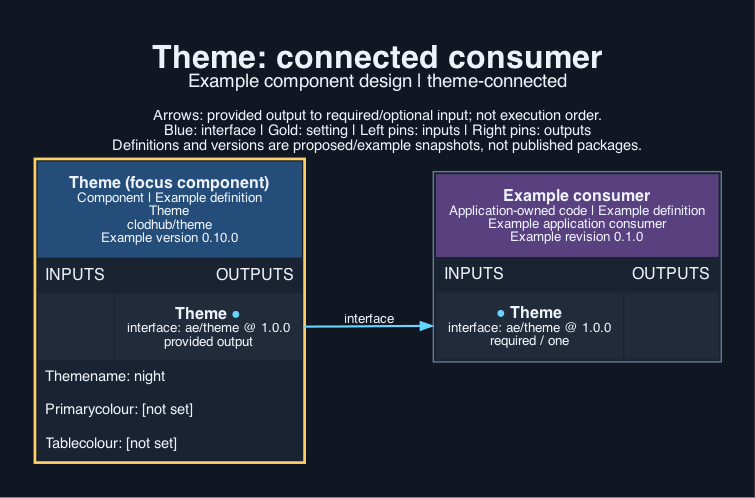
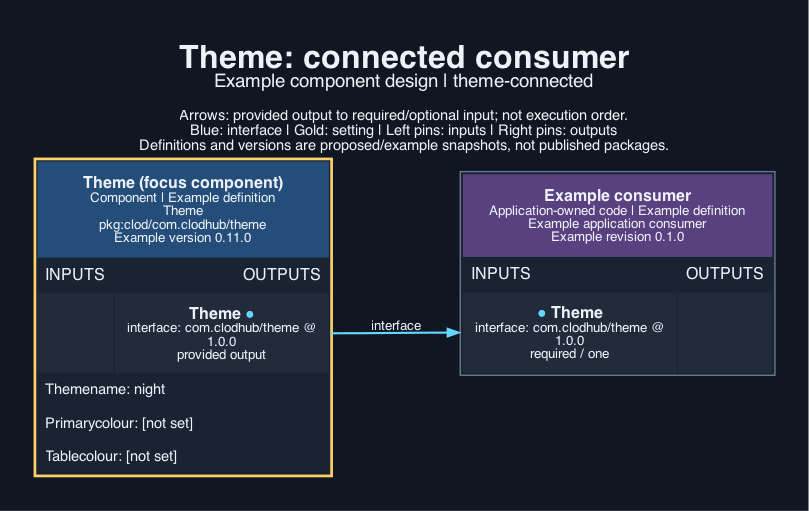
theme 0.11.0: package URL names, clod, com.clodhub interface types and Kotlin packages

Changed region(s): [[0.0305, 0.2108, 0.9748, 0.9337], [0.1828, 0.0904, 0.7921, 0.1807], [0.0, 0.994, 1.0, 1.0]]

diff --git a/tests/web.test.ts b/tests/web.test.ts
@@ -24,7 +24,7 @@ test("the shipped themes match the token schema", () => {
 test("the OpenRPC interface describes the token shape and the exported operations", async () => {
   const doc = JSON.parse(read("../interfaces/theme.json"));
   assert.equal(doc.openrpc, "1.3.2");
-  assert.deepEqual([doc.info.title, doc.info.version], ["ae/theme", "1.0.0"]);
+  assert.deepEqual([doc.info.title, doc.info.version], ["com.clodhub/theme", "1.0.0"]);
   const { Tokens, BackgroundStyle, Colour } = doc.components.schemas;
   const schema = JSON.parse(read("../implementation/web/tokens.schema.json"));
   assert.deepEqual(Tokens.required, schema.required);
@@ -88,7 +88,7 @@ test("generated CSS, Swift and Kotlin files are what the renderers produce", () 
   const out = buildAll(file);
   assert.equal(read("../implementation/web/theme.css"), out.css);
   assert.equal(read("../implementation/apple/Sources/ThemeTokens.swift"), out.swift);
-  assert.equal(read("../implementation/android/src/main/java/ae/theme/ThemeTokens.kt"), out.kotlin);
+  assert.equal(read("../implementation/android/src/main/java/com/clodhub/theme/ThemeTokens.kt"), out.kotlin);
   assert.match(renderSwift(file), /ThemeColour\(rgba: 0xE0B35AFF\)/);
   assert.match(renderKotlin(file), /primary = 0xFFE0B35AL/);
   assert.throws(() => buildAll({ ...file, themes: [{ ...night, colour: { ...night.colour, text: "x" } }] }), /text/);

diff --git a/implementation/web/tokens.ts b/implementation/web/tokens.ts
@@ -56,7 +56,7 @@ export function parseColour(hex: Colour): { r: number; g: number; b: number; a: 
   return { r: n(1), g: n(3), b: n(5), a: hex.length === 9 ? n(7) / 255 : 1 };
 }
 
-// An installer colour: an aepm string setting cannot hold "#" and must start with a letter, so a
+// An installer colour: a clod string setting cannot hold "#" and must start with a letter, so a
 // colour is written "hex e0b35a" (or "hex e0b35a80" with opacity). "#rrggbb" and "rrggbb" are accepted
 // too, for code. Returns "#rrggbb" or "#rrggbbaa" in lower case; throws for anything else.
 export function parseColourSetting(value: string): Colour {
@@ -169,7 +169,7 @@ export function renderKotlin(file: ThemeFile): string {
         background = ThemeBackgroundStyle(tint = ${k(b.tint)}, glow = ${k(b.glow)}, glowFromTop = ${b.glowFromTop}, speed = ${f(b.speed)}, suitAlpha = ${f(b.suitAlpha)}, specks = ${b.specks}, speckUp = ${b.speckUp}, speckColour = ${k(b.speckColour)}, glyphs = ${JSON.stringify(b.glyphs).replace(/[^\x00-\x7f]/g, (c) => "\\u" + c.charCodeAt(0).toString(16).padStart(4, "0"))}))`;
   });
   return `// Generated by theme tokens.ts renderKotlin from themes.json. Do not edit.
-package ae.theme
+package com.clodhub.theme
 
 object ThemeTokens {
 ${items.join("\n")}

diff --git a/implementation/android/src/main/java/com/clodhub/theme/ThemeTypes.kt b/implementation/android/src/main/java/com/clodhub/theme/ThemeTypes.kt
@@ -1,4 +1,4 @@
-package ae.theme
+package com.clodhub.theme
 
 // The token shapes ThemeTokens.kt (generated from themes.json) fills in. Colours are 0xAARRGGBB
 // Longs, so the values can be read and tested without Compose; ThemeBackground.kt turns them into Colors.
@@ -42,7 +42,7 @@ data class ThemeSet(
     }
 }
 
-// An installer colour: "hex e0b35a" (an aepm string setting cannot hold "#" and starts with a
+// An installer colour: "hex e0b35a" (a clod string setting cannot hold "#" and starts with a
 // letter), "#rrggbb", "rrggbb", each optionally with two more digits of opacity; null for anything else.
 fun parseColourSetting(value: String): Long? {
     var text = value.trim()

diff --git a/implementation/web/build-tokens.ts b/implementation/web/build-tokens.ts
@@ -25,7 +25,7 @@ if (import.meta.main) {
   const targets: [string, string][] = [
     [join(option("--css", here), "theme.css"), out.css],
     [join(option("--swift", join(here, "../apple/Sources")), "ThemeTokens.swift"), out.swift],
-    [join(option("--kotlin", join(here, "../android/src/main/java/ae/theme")), "ThemeTokens.kt"), out.kotlin],
+    [join(option("--kotlin", join(here, "../android/src/main/java/com/clodhub/theme")), "ThemeTokens.kt"), out.kotlin],
   ];
   for (const [path, text] of targets) {
     mkdirSync(dirname(path), { recursive: true });

diff --git a/implementation/apple/Sources/ThemeTypes.swift b/implementation/apple/Sources/ThemeTypes.swift
@@ -16,7 +16,7 @@ struct ThemeColour: Equatable {
         alpha = Double(rgba & 0xFF) / 255
     }
 
-    // An installer colour: "hex e0b35a" (an aepm string setting cannot hold "#" and starts with a
+    // An installer colour: "hex e0b35a" (a clod string setting cannot hold "#" and starts with a
     // letter), "#rrggbb", "rrggbb", each optionally with two more digits of opacity; nil for anything else.
     static func setting(_ value: String) -> ThemeColour? {
         var text = value.trimmingCharacters(in: .whitespaces)

diff --git a/implementation/android/src/main/java/com/clodhub/theme/ThemeTokens.kt b/implementation/android/src/main/java/com/clodhub/theme/ThemeTokens.kt
@@ -1,5 +1,5 @@
 // Generated by theme tokens.ts renderKotlin from themes.json. Do not edit.
-package ae.theme
+package com.clodhub.theme
 
 object ThemeTokens {
     val NIGHT = ThemeSet(name = "night",

diff --git a/tests/android/Main.kt b/tests/android/Main.kt
@@ -1,4 +1,4 @@
-import ae.theme.*
+import com.clodhub.theme.*
 import java.io.File
 
 // Mirrors tests/apple/main.swift without a JSON library: token values are checked against the

diff --git a/implementation/android/src/main/java/com/clodhub/theme/ThemeBackground.kt b/implementation/android/src/main/java/com/clodhub/theme/ThemeBackground.kt
@@ -1,4 +1,4 @@
-package ae.theme
+package com.clodhub.theme
 
 import android.graphics.Paint
 import androidx.compose.foundation.Canvas

diff --git a/implementation/android/src/main/java/com/clodhub/theme/BackgroundMath.kt b/implementation/android/src/main/java/com/clodhub/theme/BackgroundMath.kt
@@ -1,4 +1,4 @@
-package ae.theme
+package com.clodhub.theme
 
 import kotlin.math.PI
 import kotlin.math.abs

diff --git a/CONTRACT.md b/CONTRACT.md
@@ -6,7 +6,7 @@
 Facilities: `theme` (Design tokens and animated background for web, Apple and Android clients).
 
 ## User inputs
-`themeName` selects a theme from `themes.json` (shipped: `night`, a dark room with a warm glow rising from below; `lounge`, a slower, softer look with the glow from above). An unknown name falls back to the default. `primaryColour` and `tableColour` are optional colours that replace the theme's primary (buttons, headings, highlights) and table (playing surface) colours; empty means the theme's own. An aepm string setting cannot hold `#` and must start with a letter, so a colour is written `hex e0b35a` (six digits, or eight with opacity); code may also pass `#e0b35a`. The settings are strings with the `label` grammar; a malformed colour is refused. Scene pictures and figures are supplied by the application at run time, not by this package.
+`themeName` selects a theme from `themes.json` (shipped: `night`, a dark room with a warm glow rising from below; `lounge`, a slower, softer look with the glow from above). An unknown name falls back to the default. `primaryColour` and `tableColour` are optional colours that replace the theme's primary (buttons, headings, highlights) and table (playing surface) colours; empty means the theme's own. A clod string setting cannot hold `#` and must start with a letter, so a colour is written `hex e0b35a` (six digits, or eight with opacity); code may also pass `#e0b35a`. The settings are strings with the `label` grammar; a malformed colour is refused. Scene pictures and figures are supplied by the application at run time, not by this package.
 
 - `themeName` (string, slug; optional; default `night`)
 - `primaryColour` (string, label; optional)
@@ -15,10 +15,10 @@ Facilities: `theme` (Design tokens and animated background for web, Apple and An
 ## Artefacts and dependencies
 `component.json` maps every `implementation/` source into `components/theme/`:
 
-- `implementation/android/src/main/java/ae/theme/BackgroundMath.kt` -> `components/theme/android/src/main/java/ae/theme/BackgroundMath.kt`
-- `implementation/android/src/main/java/ae/theme/ThemeBackground.kt` -> `components/theme/android/src/main/java/ae/theme/ThemeBackground.kt`
-- `implementation/android/src/main/java/ae/theme/ThemeTokens.kt` -> `components/theme/android/src/main/java/ae/theme/ThemeTokens.kt`
-- `implementation/android/src/main/java/ae/theme/ThemeTypes.kt` -> `components/theme/android/src/main/java/ae/theme/ThemeTypes.kt`
+- `implementation/android/src/main/java/com/clodhub/theme/BackgroundMath.kt` -> `components/theme/android/src/main/java/com/clodhub/theme/BackgroundMath.kt`
+- `implementation/android/src/main/java/com/clodhub/theme/ThemeBackground.kt` -> `components/theme/android/src/main/java/com/clodhub/theme/ThemeBackground.kt`
+- `implementation/android/src/main/java/com/clodhub/theme/ThemeTokens.kt` -> `components/theme/android/src/main/java/com/clodhub/theme/ThemeTokens.kt`
+- `implementation/android/src/main/java/com/clodhub/theme/ThemeTypes.kt` -> `components/theme/android/src/main/java/com/clodhub/theme/ThemeTypes.kt`
 - `implementation/apple/Sources/BackgroundMath.swift` -> `components/theme/apple/Sources/BackgroundMath.swift`
 - `implementation/apple/Sources/ThemeBackgroundView.swift` -> `components/theme/apple/Sources/ThemeBackgroundView.swift`
 - `implementation/apple/Sources/ThemeTokens.swift` -> `components/theme/apple/Sources/ThemeTokens.swift`
@@ -35,7 +35,7 @@ Dependencies: none.
 `tools.lock.json` pins verification tools: node 26.5, python3 3.12, swiftc 6.4, xcrun 72, kotlinc 2.2, java 26.0. Licence wording remains deferred.
 
 ## Provided interfaces
-- `interfaces/theme.json` defines `theme` (ae/theme) version 1.0.0 as an OpenRPC 1.3.2 document: one method per web function (`tokens.ts`, `background.ts`, `build-tokens.ts`), each description naming the Swift and Kotlin form, and the token shape (`Tokens`, `BackgroundStyle`, `ThemeFile`, `ThemeSettings`, the host views) as JSON Schema 2020-12 under `components.schemas`. Host views the shells read: `colourTable` (every colour name to `#rrggbb`, for web-host `themeColour` and `backgroundColour`), `accentColour` and Swift `ThemeSet.accent` (apple-host tint), `shellPalette` and Kotlin `ThemeSet.palette()` (android-host `ShellPalette`; the secondary colour is the table colour). Colours resolve first, so the host settings and the installer overrides agree.
+- `interfaces/theme.json` defines `theme` (com.clodhub/theme) version 1.0.0 as an OpenRPC 1.3.2 document: one method per web function (`tokens.ts`, `background.ts`, `build-tokens.ts`), each description naming the Swift and Kotlin form, and the token shape (`Tokens`, `BackgroundStyle`, `ThemeFile`, `ThemeSettings`, the host views) as JSON Schema 2020-12 under `components.schemas`. Host views the shells read: `colourTable` (every colour name to `#rrggbb`, for web-host `themeColour` and `backgroundColour`), `accentColour` and Swift `ThemeSet.accent` (apple-host tint), `shellPalette` and Kotlin `ThemeSet.palette()` (android-host `ShellPalette`; the secondary colour is the table colour). Colours resolve first, so the host settings and the installer overrides agree.
 
 ## Required interfaces
 None.

diff --git a/SOURCE.md b/SOURCE.md
@@ -7,7 +7,7 @@ Reference revision: `19905b75dbea89fbfd424d67fe26c81aaed0e018`. Extracted from t
 - `implementation/web/tokens.schema.json` <- new. Shape of the values in `web/src/style.css:1-12` (`:root` colours) and the `Theme` type in `web/src/background.ts:3-6`, extended with spacing, radii and a type scale read off the repeated values in `style.css` (paddings 4 to 24, radii 6 to 999, font sizes 11 to 36). Generated platform-neutral (`generated-platform`).
 - `implementation/web/themes.json` <- `web/src/background.ts:8-11` (`casino`, `home` values) and `web/src/style.css:1-12`. `casino` is renamed `night` and `home` `lounge`; `--gold` is `primary`, `--felt` `table`, `--felt-edge` `tableEdge`, `--bg` `background`, `#1b1a17` (ink) `onPrimary`, `#f6f1e4` and `#c0262d` (card face and red, `style.css:121-122`, `ios Palette`) `paper` and `paperAccent`. The recipe's `felt` and `bg` differ between `style.css` and the per-room `Theme`; the per-room values are kept.
 - `implementation/web/tokens.ts` <- new (`generated-platform`): validation, `resolveTheme` (settings `themeName`, `primaryColour`, `tableColour`), and the CSS, Swift and Kotlin renderers. `Theme.setTheme` in `web/src/background.ts:66-75` set `--felt` and `--bg` directly; `applyTheme` replaces it.
-- `implementation/web/theme.css`, `implementation/apple/Sources/ThemeTokens.swift`, `implementation/android/src/main/java/ae/theme/ThemeTokens.kt` <- generated by `build-tokens.ts`; checked for drift in `tests/web.test.ts`.
+- `implementation/web/theme.css`, `implementation/apple/Sources/ThemeTokens.swift`, `implementation/android/src/main/java/com/clodhub/theme/ThemeTokens.kt` <- generated by `build-tokens.ts`; checked for drift in `tests/web.test.ts`.
 - `implementation/web/build-tokens.ts` <- new command line wrapper.
 - `implementation/web/background.ts` <- `web/src/background.ts:1-181`. Kept: the random generator (`19-22`), particle and speck seeds (`25-32`), the drawing (`109-181`) and placement formulas. Generalised: the `themes` and `scenes` tables and `./art/scene-<room>-*` file names (`8-17`, `53-61`) became the theme tokens and a caller-supplied `Scene` (`setScene`); suit characters (`24`) became the theme's `glyphs`; the placement maths (`150-180`) became pure `glyphFrame`, `speckFrame`, `flicker`, `figureBox`; the sprite tint and glow colours are parsed from token colours. Left behind: the room id and the `casino` fall-back.
 
@@ -20,9 +20,9 @@ Reference revision: `19905b75dbea89fbfd424d67fe26c81aaed0e018`. Extracted from t
 
 ## Android
 
-- `implementation/android/src/main/java/ae/theme/ThemeTypes.kt` <- new (`generated-platform`), as the Swift types.
-- `implementation/android/src/main/java/ae/theme/BackgroundMath.kt` <- `android/app/src/main/java/app/ourapps/ourpoker/ui/PokerBackground.kt:86-107` (seeds) and `140-165` (placement).
-- `implementation/android/src/main/java/ae/theme/ThemeBackground.kt` <- `PokerBackground.kt:1-138`. Generalised: `THEMES`, `themeFor`, `sceneImage` by resource name and the `SCENES` table became `BackgroundScene`; `ComposeColours` is new. Left behind: `Layout.kt` (to `table-layout`).
+- `implementation/android/src/main/java/com/clodhub/theme/ThemeTypes.kt` <- new (`generated-platform`), as the Swift types.
+- `implementation/android/src/main/java/com/clodhub/theme/BackgroundMath.kt` <- `android/app/src/main/java/app/ourapps/ourpoker/ui/PokerBackground.kt:86-107` (seeds) and `140-165` (placement).
+- `implementation/android/src/main/java/com/clodhub/theme/ThemeBackground.kt` <- `PokerBackground.kt:1-138`. Generalised: `THEMES`, `themeFor`, `sceneImage` by resource name and the `SCENES` table became `BackgroundScene`; `ComposeColours` is new. Left behind: `Layout.kt` (to `table-layout`).
 
 `colourTable`, `accentColour`, `shellPalette` (web), `ThemeSet.accent` (Swift) and `ThemePalette` with `ThemeSet.palette()` (Kotlin) are new code (`generated-platform` for the native two); they have no recipe counterpart. The recipe builds its android palette and Apple tint by hand from the same colours.
 

diff --git a/INSTRUCTIONS.md b/INSTRUCTIONS.md
@@ -1,14 +1,14 @@
 # Theme instructions
 
 ## For the agent
-Select `clodhub/theme`; set `themeName` from the recipe's look answer and the two colour settings (written `hex rrggbb`) only when the user gave brand colours. Include the web, Apple and Android parts for the targets the recipe builds. Connect `theme` to every component that requires it (controls, table-layout, card-graphics, chip-graphics, and the host shells).
+Select `pkg:clod/com.clodhub/theme`; set `themeName` from the recipe's look answer and the two colour settings (written `hex rrggbb`) only when the user gave brand colours. Include the web, Apple and Android parts for the targets the recipe builds. Connect `theme` to every component that requires it (controls, table-layout, card-graphics, chip-graphics, and the host shells).
 
-- Select package `clodhub/theme` version `0.10.0`.
+- Select package `pkg:clod/com.clodhub/theme` version `0.11.0`.
 - Settings to configure:
   - `themeName` (string, slug; optional; default `night`)
   - `primaryColour` (string, label; optional)
   - `tableColour` (string, label; optional)
-- Connect the provided `theme` (ae/theme 1.0.0, OpenRPC 1.3.2 document `interfaces/theme.json`) to the consumer that needs it.
+- Connect the provided `theme` (com.clodhub/theme 1.0.0, OpenRPC 1.3.2 document `interfaces/theme.json`) to the consumer that needs it.
 - No accounts or keys are needed.
 
 ## For the developer
@@ -22,4 +22,4 @@ From the component directory:
 - `node --test tests/web.test.ts` (web, required-local; tools: node 26.5)
 - `python3 tests/native.py apple` (apple, platform; tools: python3 3.12, swiftc 6.4, xcrun 72)
 - `python3 tests/native.py android` (android, platform; tools: python3 3.12, kotlinc 2.2, java 26.0)
-- `python3 -m aepm review <digest> --store STORE --policy POLICY --trusted --allow-network` checks an archive fetched with `python3 -m aepm fetch clodhub/theme@VERSION --store STORE --from https://clodhub.com` and runs its suites.
+- `python3 -m clod review <digest> --store STORE --policy POLICY --trusted --allow-network` checks an archive fetched with `python3 -m clod fetch theme@VERSION --store STORE --from https://clodhub.com` and runs its suites.
